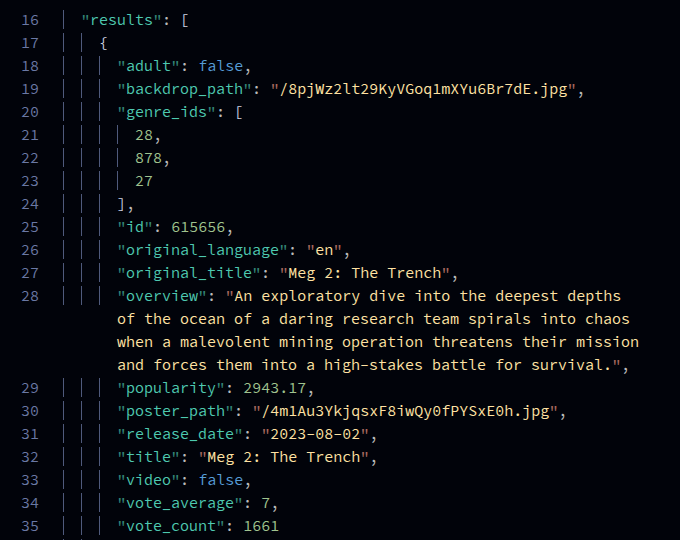
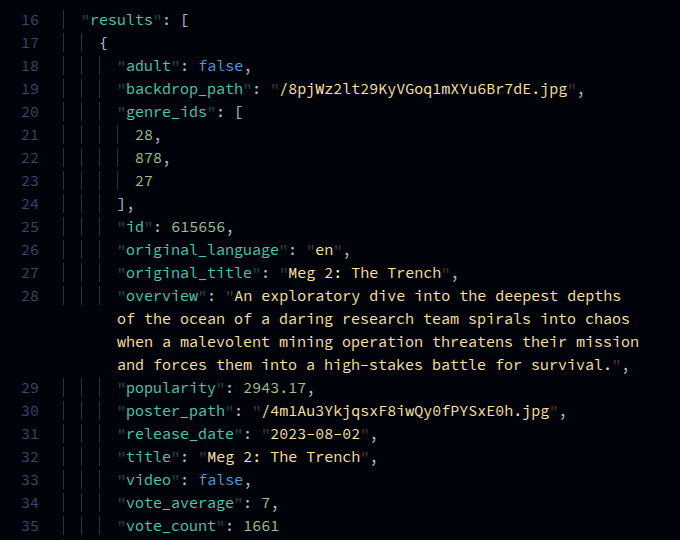
docs: show the punctuation screenshots in Lasik Dark Quiet

diff --git a/README.md b/README.md
@@ -54,7 +54,7 @@ Attention was paid to making arithmetic evaluation, command evaluation, variable
 
 Some elements have been dimmed (for example quotes around strings and property names in JSON and HTML, or punctuation around Markdown elements), to give more emphasis to the actual _keys_ and _values_ and not punctuation marks. The assumption here is that you already have a linter or syntax highlighting good enough to point out a missing punctuation and you don't necessarily need to see them prominently.
 
-This is more readable:
+This is more readable (shown in Lasik Dark Quiet, where quotes are dimmed the most):
 
 ![Dimmed punctuation colors](./images/dimmed-punctuation-colors.png)
 
